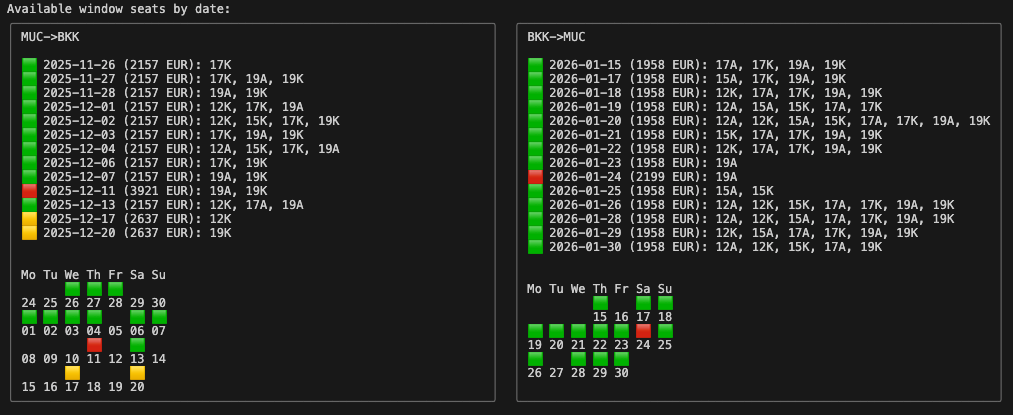
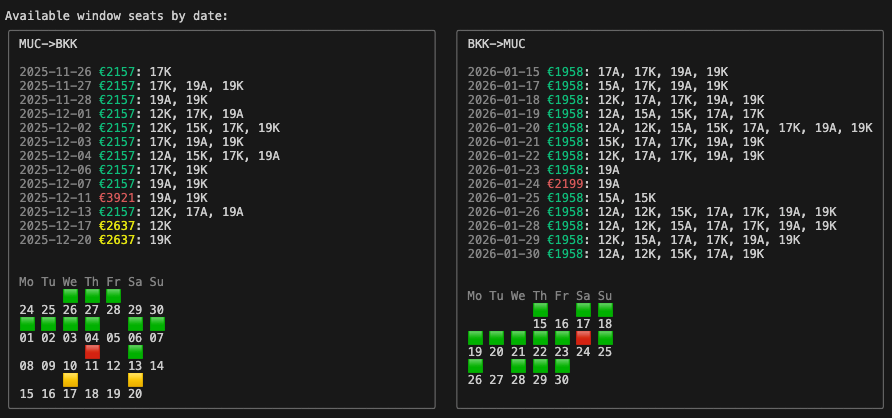
update readme

Changed region(s): [[0.0, 0.0, 0.9989, 0.9831]]

diff --git a/config.py b/config.py
@@ -102,7 +102,7 @@ HEATMAP_COLORS = {
 HEATMAP_HEADER_COLOR = "fg_grey"
 
 STATIC_LABELS = {
-    "compact_seatmap_heading": "\nCompact seatmaps:\n",
+    "compact_seatmap_heading": "\nSeatmaps:\n",
     "availability_heading": "\nAvailable window seats by date:",
     "price_label": "Price",
     "no_window_seats": "No window seats",

diff --git a/README.md b/README.md
@@ -4,7 +4,7 @@ CLI utility for browsing Amadeus seat-map availability across a set of long-haul
 
 ## Example output
 
-![Example output: weekly grid of ASCII seat maps](docs/seatmaps.png)
+![Example output: weekly grid of ASCII seat maps](docs/seatmaps_compact.png)
 
 _Figure: Example terminal output showing the weekly ASCII seat maps (Mon–Sun)._
 
@@ -15,6 +15,10 @@ _Figure: Example terminal output showing the date-sorted ledger of available win
 ![Example output: price heatmaps](docs/price_heatmaps.png)
 
 _Figure: Example terminal output showing the price heatmaps for all flight combinations - one for windows seats and one for all._
+
+![Example output: weekly grid of ASCII seat maps - alternative layout](docs/seatmaps.png)
+
+_Figure: Example terminal output showing the weekly ASCII seat maps (Mon–Sun) in an alternative layout._
 
 ## Highlights
 - Builds ASCII seat maps with wide-character awareness so layouts stay aligned even when using emoji markers.
@@ -48,8 +52,15 @@ AMADEUS_CLIENT_SECRET=...
 
 The script reads these via `python-dotenv`, so the `.env` file only needs to exist in the repo root.
 
+## Configuration
+Most runtime knobs live in `config.py`, so you rarely need to edit `flight_search.py` directly. Notable settings:
+- `ENVIRONMENT` picks the data source (`production`, `test`, `e2e`, `e2e-pickle`).
+- `TRAVEL_WINDOWS` lists the routes/date ranges that should be fetched and rendered.
+- Visual toggles such as `SEATMAP_OUTPUT_STYLE`, `SHOW_SEATMAP_PRICE`, `HEATMAP_EMPHASIS_STYLES`, `STATUS_SYMBOLS`, and `WINDOW_AVAILABLE_SYMBOL` control how the ASCII/emoji output looks.
+- Currency/price decoration (`CURRENCY_SYMBOLS`, `BORDER_COLORS`, etc.) reference the semantic tokens defined in `colors.py`; extend `colors.TOKEN_MAP` if you need custom ANSI sequences.
+
 ## Execution modes
-Set the `environment` constant near the top of `flight_search.py` to pick a data source:
+Set `ENVIRONMENT` in `config.py` to pick a data source:
 
 | Value | Description |
 | --- | --- |
@@ -58,13 +69,13 @@ Set the `environment` constant near the top of `flight_search.py` to pick a data
 | `test` | Calls the Amadeus *test* environment using `TEST_AMADEUS_CLIENT_*` credentials. |
 | `production` | Calls the Amadeus *production* environment using `AMADEUS_CLIENT_*` credentials. |
 
-When running against `test` or `production`, the script iterates over the configured `travel_windows` and caches every retrieved seat map into `test/seatmaps.pkl` for future offline use.
+When running against `test` or `production`, the script iterates over the configured `TRAVEL_WINDOWS` and caches every retrieved seat map into `test/seatmaps.pkl` for future offline use.
 
 ## Travel windows & filters
-Define the routes and date ranges you care about by editing the `travel_windows` list near the top of `flight_search.py`:
+Define the routes and date ranges you care about by editing the `TRAVEL_WINDOWS` list inside `config.py`:
 
 ```python
-travel_windows = [
+TRAVEL_WINDOWS = [
     {
         "origin": "MUC",
         "destination": "BKK",
@@ -87,7 +98,7 @@ Typical output is:
 - A route-by-route window-seat ledger that includes rounded prices, per-date availability notes, and a small calendar heatmap to hint at relative fares.
 - (Optional) Two round-trip matrices that add outbound + return fares together—one based on window-seat pricing and one using any available fare—whenever at least two travel windows are defined.
 
-Adjust `travel_windows` in `flight_search.py` if you need different routes or date ranges. The helper `iter_dates` already walks every day between the `start_date` and `end_date`.
+Adjust `TRAVEL_WINDOWS` in `config.py` if you need different routes or date ranges. The helper `iter_dates` already walks every day between the `start_date` and `end_date`.
 
 ## Output details
 - **Weekly seat-map grid** – One block per day, grouped by week. Missing data shows a `NO DATA` placeholder, and the absolute lowest fare per route gets a green border plus a rounded price label at the bottom of the block.
